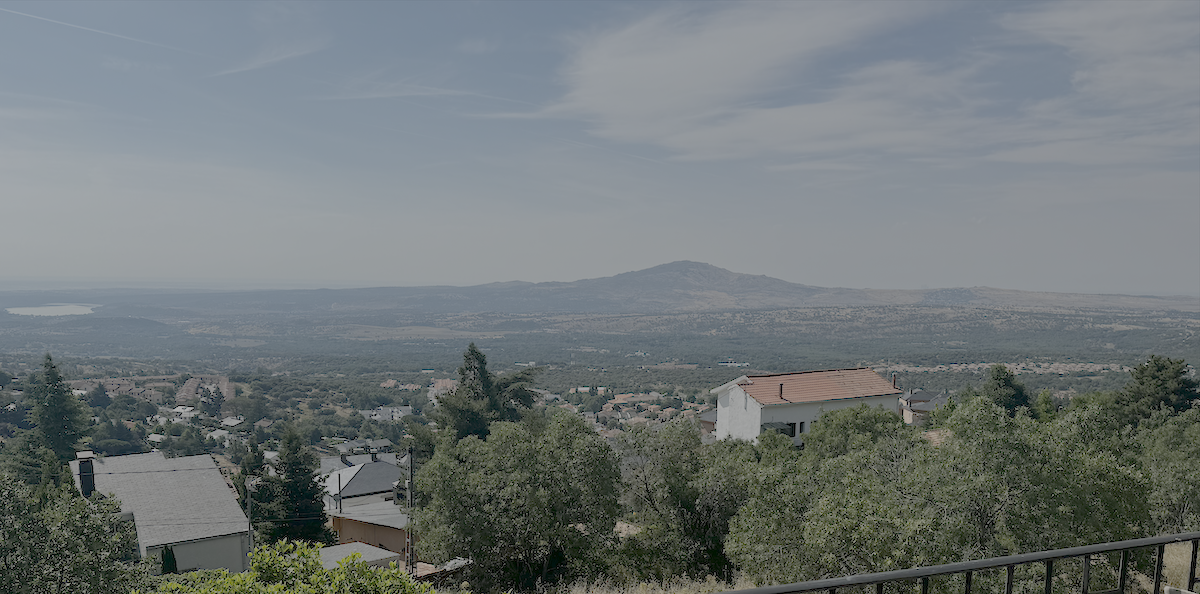
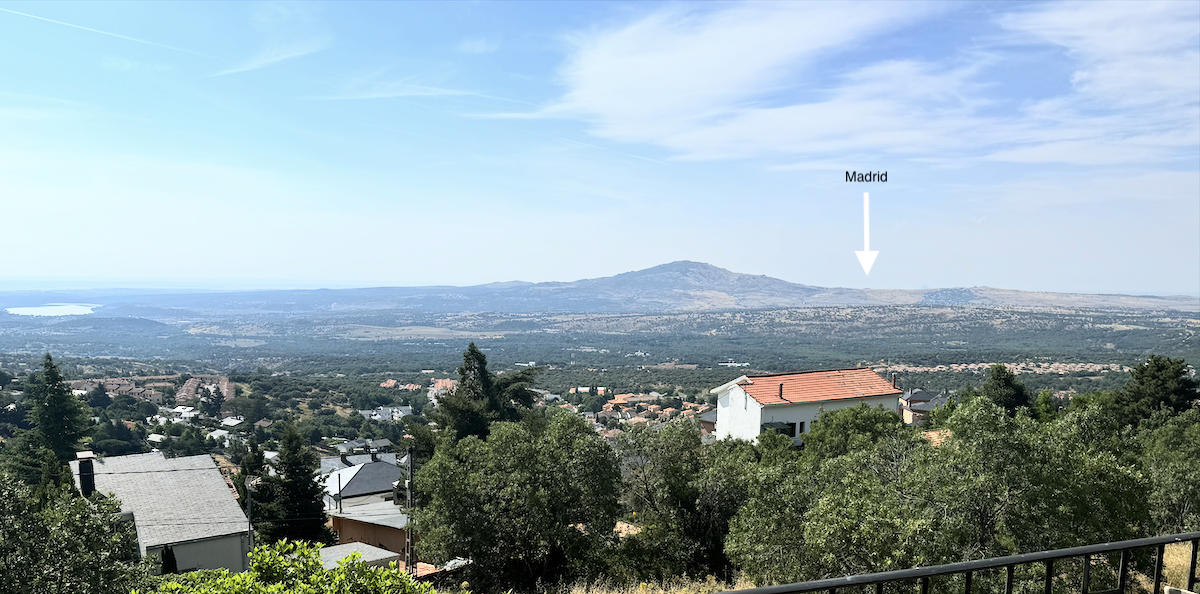
more posts - seqoiva, avila, toldeo

diff --git a/posts/morcuera-cuerda-larga.md b/posts/morcuera-cuerda-larga.md
@@ -4,12 +4,12 @@ Date: 2025-07-23
 Tags: hiking, Morcuera, Mountains, goats, Cuerda Larga, Navacerrada
 
 At the top of Morcuera is the start/end of the Cuerda Larga a 21 km
-walk over the Guadaramma range to Navacerrada. You can drive up to the
+walk over the Guadarama range to Navacerrada. You can drive up to the
 top and its about an hour walk from the Morcuera road (1800m) to the
 tops about ~2000m. Lots of Spaniards do the Cuerda Larga (long Cord) on a full
 moon but probably best to start in Navacerrada and end up at Morcuera.
 
-You will need good sandshoes as stoney and some rock hopping. Also the
-Iberian Goat so they are pretty cool to see.
-
+You will need good sand shoes as stoney and some rock hopping. Also
+there are Iberian Goat up there and they are pretty cool to see.
+<!-- end-of-preview -->
 ![half-Morcuera-MTB](./assets/morcuera-top-cuerda-larga.png)

diff --git a/posts/la-trocha.md b/posts/la-trocha.md
@@ -1,16 +1,15 @@
 Title: La Trocha
 Author: Gas
-Date: 2025-08-30
+Date: 2026-08-30
 Tags: house,casa
 
 This web page is for information about Gas & Zuri's house - "La Trocha" -
-in Madrid. 
-![La Trocha](./assets/la-trocha.png)
+in Madrid. La Trocha is in the pueblo Miraflores de la Sierra ~ 50km from Madrid
+at an altitude of 1200m. 
+![La Trocha](./assets/la_trocha.jpg)
+
+Here's a view of Madrid from our balcony
+<img src="./assets/view-from-balcony.png" width=800>
 <!-- end-of-preview -->
 Posts are tagged for easy grouping - aka FAQ, biking etc.
-
-Here's a view of Madrid (50km away) from our balcony
-<img src="./assets/view-from-balcony.png" width=800>
-
-
 

diff --git a/posts/toledo.md b/posts/toledo.md
@@ -1,0 +1,13 @@
+Title: Toledo
+Author: Gas
+Date: 2025-03-22
+Tags: touristic, castillo, knights armour, monastry
+
+Toledo is where the best armour for aspiring knights can be found.
+Also if you want a sword then this is your place.
+It is about an 1 1/2 hours from La Trocha in car. And best to leve
+early as parking is cheap in the morning (2$ until midday) plus its a
+lot cooler
+
+A walled town on top of a hill surrounded by rivers its pretty awesome
+and heaps to see and do - plus shop. Cathedrals and churches for Africa.

diff --git a/posts/avila.md b/posts/avila.md
@@ -1,0 +1,12 @@
+Title: Avila
+Author: Gas
+Date: 2025-03-21
+Tags: touristic, castillo, walled town
+
+Avila has a massive wall around the bottom of the old town. Wroth
+going up and having a walk along the walls - costs about 10 Euros.
+Makes ure you buy your water before you go up as otherwise youll waste
+5 euros for a water!
+
+Good food up the hill ( and view of the walled Avila) on other side of
+gully form the bottom of the walled city.

diff --git a/posts/segovia.md b/posts/segovia.md
@@ -1,0 +1,12 @@
+Title: Segovia
+Author: Gas
+Date: 2025-03-23
+Tags: touristic, roman, castillo, cathedral
+
+Seqovia is the poster child for Roman aqueducts. It also has the
+Alcazar castle which was copied by Disney? and a pretty big cathedral.
+It is about an 1 1/2 hours from La Trocha in car.
+Or about 3 hours if you catch a 725 bus to madrid and then fast train
+(ave) from Charmatin.
+
+Seqovia is known for its cochinillo (suckling pig)

diff --git a/posts/boiler.md b/posts/boiler.md
@@ -5,6 +5,9 @@ Tags: FAQ, water, heating, boiler
 
 La Trocha runs off a diesel filled boiler in back building. You will
 need to turn the boiler on when you arrive. Get the key form the
-kitchen drawer marked "Boiler" or "Caldera" and open it up. Switch off
-when you leave as well.
+kitchen drawer marked "Boiler" or "Caldera" and open it up. 
+
+![Boiler-switch](./assets/boiler.jpg)
+
+Switch the boiler back off when you leave as well.
 

diff --git a/posts/keys.md b/posts/keys.md
@@ -1,0 +1,8 @@
+Title: Keys for the House
+Author: Gas
+Date: 2025-02-23
+Tags: keys, house, casa
+
+The keys for all the different doors in the house are in the kitchen
+in the top draw by the stove. They should all be tagged. Just use the front door keys
+if you leave the house and make sure the kitchen door is locked.
